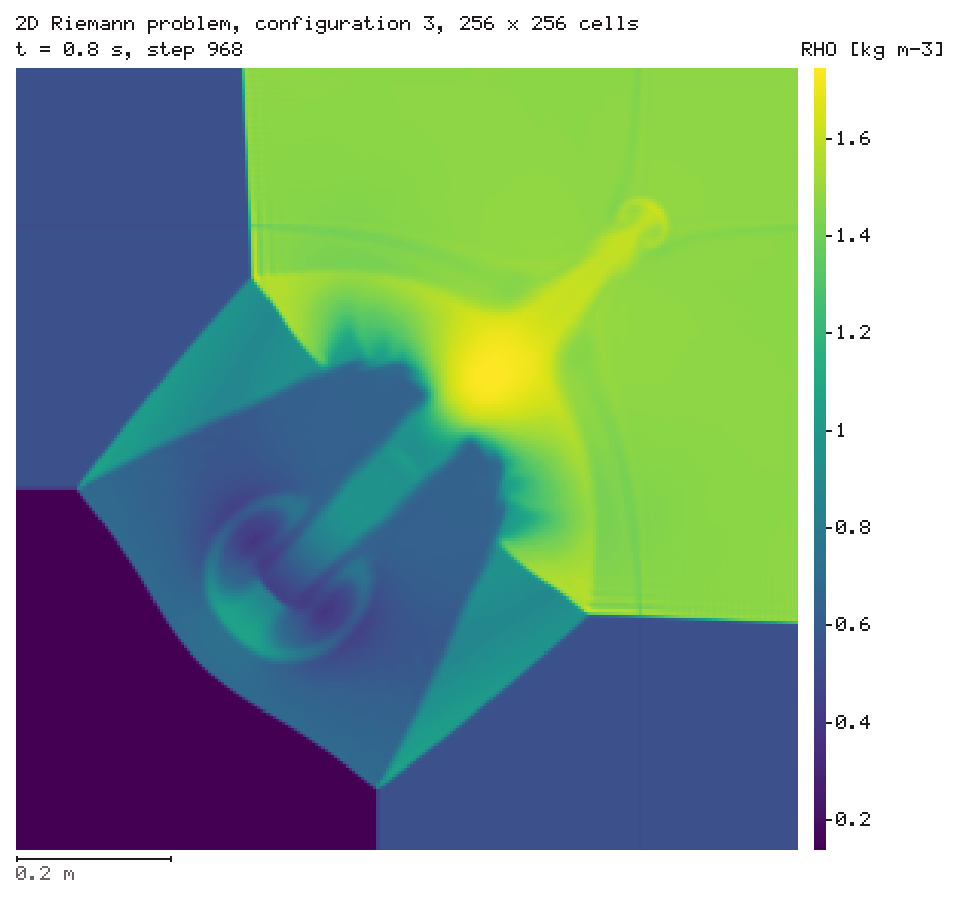
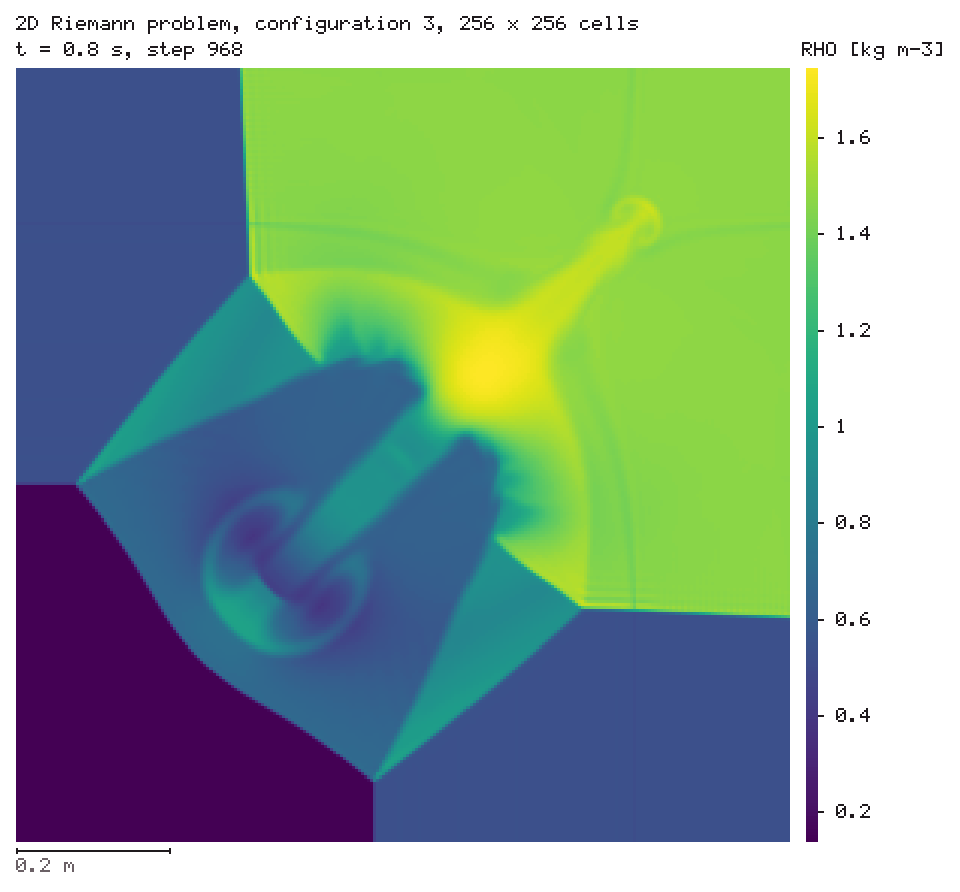
post render: distinct tick labels, measurements against the Python scripts
Tick labels take as many digits as tell them apart, a space from the tick
mark; a constant field spans 0.1% around its value. The design notes and
the guide give the cost against plot_vtu.py and animate.py on the same
files, and the pixel agreement with an independent lookup.

diff --git a/src/io/render.cpp b/src/io/render.cpp
@@ -345,7 +345,7 @@ Layout layout(const Window & window, uint32_t width, uint32_t height, bool bare,
     const int64_t line = image::GLYPH_HEIGHT * s;
     const int64_t margin = bare ? 0 : 8 * s;
     const int64_t top = bare ? 0 : margin + (l.title ? line + 4 * s : 0) + line + 4 * s;
-    const int64_t right = bare ? 0 : 8 * s + 6 * s + 5 * s + 9 * image::GLYPH_ADVANCE * s + margin;
+    const int64_t right = bare ? 0 : 8 * s + 6 * s + 3 * s + 10 * image::GLYPH_ADVANCE * s + margin;
     const int64_t bottom = bare ? 0 : 4 * s + s + 3 * s + line + margin;
     const double aspect = (window.y1 - window.y0) / (window.x1 - window.x0);
     const auto even = [](int64_t v) { return uint32_t(std::max<int64_t>(2, v + (v & 1))); };
@@ -411,6 +411,15 @@ std::vector<double> ticks(const Scale & scale) {
 }
 
 std::string number(double x) { return logging::format("%.4g", x); }
+
+std::vector<std::string> tick_labels(const std::vector<double> & ticks) {
+    std::vector<std::string> out(ticks.size());
+    for (int digits = 4; digits <= 15; digits++) {
+        for (size_t i = 0; i < ticks.size(); i++) out[i] = logging::format("%.*g", digits, ticks[i]);
+        if (std::adjacent_find(out.begin(), out.end()) == out.end()) break;
+    }
+    return out;
+}
 
 image::Indexed draw(const Layout & l, const Frame & f, unsigned threads) {
     image::Indexed img(l.width, l.height, BACKGROUND);
@@ -491,12 +500,15 @@ image::Indexed draw(const Layout & l, const Frame & f, unsigned threads) {
         const auto k = uint8_t(std::min<int64_t>(N_LEVELS - 1, (bh - 1 - r) * int64_t(N_LEVELS) / std::max<int64_t>(bh, 1)));
         img.fill(bx0, py0 + r, bx1, py0 + r + 1, k);
     }
-    for (const double t : ticks(f.scale)) {
-        const double v = log ? std::log(t) : t;
+    const std::vector<double> tick = ticks(f.scale);
+    const std::vector<std::string> labels = tick_labels(tick);
+    for (size_t i = 0; i < tick.size(); i++) {
+        const double v = log ? std::log(tick[i]) : tick[i];
         if (hi <= lo || v < lo - 1e-12 * std::abs(lo) || v > hi + 1e-12 * std::abs(hi)) continue;
         const int64_t ty = py1 - 1 - std::llround((v - lo) / (hi - lo) * double(bh - 1));
         img.fill(bx1, ty - (s - 1) / 2, bx1 + 3 * s, ty + s / 2 + 1, FOREGROUND);
-        image::text(img, bx1 + 5 * s, ty - (image::GLYPH_ASCENT * s) / 2, number(t), s, FOREGROUND);
+        image::text(img, bx1 + 3 * s + image::GLYPH_ADVANCE * s, ty - (image::GLYPH_ASCENT * s) / 2, labels[i], s,
+                    FOREGROUND);
     }
 
     // The scale bar: a round length near a fifth of the width

diff --git a/src/io/render.h b/src/io/render.h
@@ -124,6 +124,9 @@ struct Scale {
  *         ten, or powers of ten on a logarithmic scale; the ends if there are fewer than two. */
 std::vector<double> ticks(const Scale & scale);
 
+/** @brief The ticks' labels: %g with four significant digits, or as many more as tell them apart. */
+std::vector<std::string> tick_labels(const std::vector<double> & ticks);
+
 /** @brief A drawing over the plot: segments and points in plane coordinates, labeled. */
 struct Overlay {
     std::vector<std::array<std::array<double, 2>, 2>> segments;

diff --git a/test/render_test.cpp b/test/render_test.cpp
@@ -286,6 +286,8 @@ TEST(RenderTest, ColorbarTicksAreRoundAndWithinTheRange) {
         const std::vector<double> t = render::ticks({a, b, false});
         ASSERT_GE(t.size(), 2u);
         EXPECT_LE(t.size(), 11u);
+        const std::vector<std::string> labels = render::tick_labels(t);
+        EXPECT_EQ(std::adjacent_find(labels.begin(), labels.end()), labels.end()) << a << " " << b;
         for (const double x : t) {
             EXPECT_GE(x, a - 1e-9 * std::abs(b - a));
             EXPECT_LE(x, b + 1e-9 * std::abs(b - a));

diff --git a/src/render_main.cpp b/src/render_main.cpp
@@ -525,7 +525,7 @@ int render_files(const cli::Args & args) {
         if (!(scale.lo > 0.0)) throw UsageError("--log takes a positive --range");
     }
     if (!(scale.hi > scale.lo)) {
-        const double pad = std::max(std::abs(scale.lo) * 1e-6, 1e-30);
+        const double pad = std::max(std::abs(scale.lo) * 1e-3, 1e-30);
         scale.lo -= pad;
         scale.hi += pad;
     }

diff --git a/docs/design/output_reader.md b/docs/design/output_reader.md
@@ -301,3 +301,39 @@ the smooth Taylor-Green vortex they agree to 1-2% away from the box's faces
 (2 cells), which ParaView does not know are periodic (14% for `Q_CRITERION`
 over the whole box); behind the shocks of the double Mach reflection the
 gradient of a discontinuity depends on the method, and they differ at order one.
+
+## `mallard post render`
+
+`post render` draws snapshots with the same reader, so it needs no Python, no
+VTK and no display, and reads only the field it draws. Each pixel takes the
+area-weighted mean of the cells whose centroids it holds, or else the value of
+the cell under its center, so a mesh finer than the image is averaged rather
+than sampled; the pixel-to-cell map is built once per mesh and reused for
+every frame of a series. Images are 8-bit palette PNG (zlib when the build has
+it, else a built-in deflate) and GIF (its own LZW encoder); other movie
+formats go to an `ffmpeg` executable through a pipe, so no new library is
+linked.
+
+### Cost against the Python scripts
+
+The same files drawn by `mallard post render` and by the scripts it replaces,
+`tools/post/plot_vtu.py` (matplotlib `tripcolor`) and `tools/post/animate.py`
+(pixel-to-cell lookup, matplotlib, `ffmpeg`), at their default sizes. One
+CPU-only Linux container on an AMD EPYC 7763, 16 threads, `mallard` built with
+GCC 15.2 (Release, OpenMP, HDF5, zlib), Python 3.14, matplotlib 3.10, ffmpeg
+8.0; wall time and peak resident memory (`/usr/bin/time`, which includes
+`ffmpeg`), the better of 2 runs:
+
+| Files | `post render` | Python |
+|---|---|---|
+| 2D Riemann, 200² quadrilaterals, one snapshot (5 MB), PNG | 0.15 s, 0.07 GB | `plot_vtu.py`: 1.0 s, 0.13 GB |
+| 2D Riemann, 2048² quadrilaterals, one snapshot (0.5 GB), PNG | 1.1 s, 0.8 GB | `plot_vtu.py`: 49 s, 4.2 GB |
+| 3D box, 128³ hexahedra (0.4 GB), PNG of the slice z = π | 0.43 s, 0.41 GB | `plot_vtu.py --slice z`: 2.5 s, 0.87 GB |
+| 2D Riemann, 400² quadrilaterals, 101 snapshots (0.5 GB), movie | MP4: 6.9 s, 1.0 GB; GIF: 6.8 s, 0.13 GB | `animate.py` (MP4 and GIF): 54 s, 2.2 GB |
+
+Most of the MP4's memory is `ffmpeg`'s H.264 encoder; GIF frames are encoded
+by `mallard` itself. Agreement: rendered with `--bare --colormap gray
+--range 0.1,1.8`, the 200² snapshot's pixels equal, at 800, 1000 and 138
+pixels wide, those of an independent lookup in Python (the cell under each
+pixel center or, at 138 pixels, the mean of the cells centered in the pixel)
+quantized to the same 240 levels, every pixel.

diff --git a/docs/guide/output.md b/docs/guide/output.md
@@ -1339,8 +1339,10 @@ shell expand them. A `.png` of several snapshots draws the last; name frames
 with `%04d` for each. Region outlines and 3D surface views are not drawn yet
 ([#516](https://github.com/MatthewBonanni/mallard/issues/516)).
 
-Against the Python scripts it replaces on the same files, it is
-BENCH_SUMMARY ([measurements](../design/output_reader.md#mallard-post-render)).
+On the same files it is 6 times faster than `tools/post/plot_vtu.py` on a small
+snapshot, 40 times on a 4-million-cell one, and 8 times faster than
+`tools/post/animate.py` on a 101-frame movie, in half the memory or less
+([measurements](../design/output_reader.md#mallard-post-render)).
 
 ### Comparing two solutions: `mallard diff`
 
